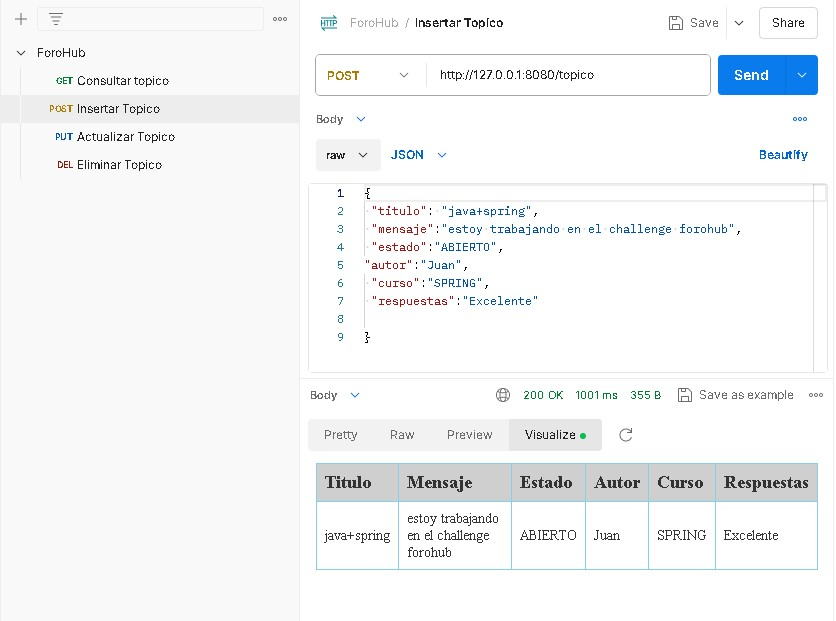
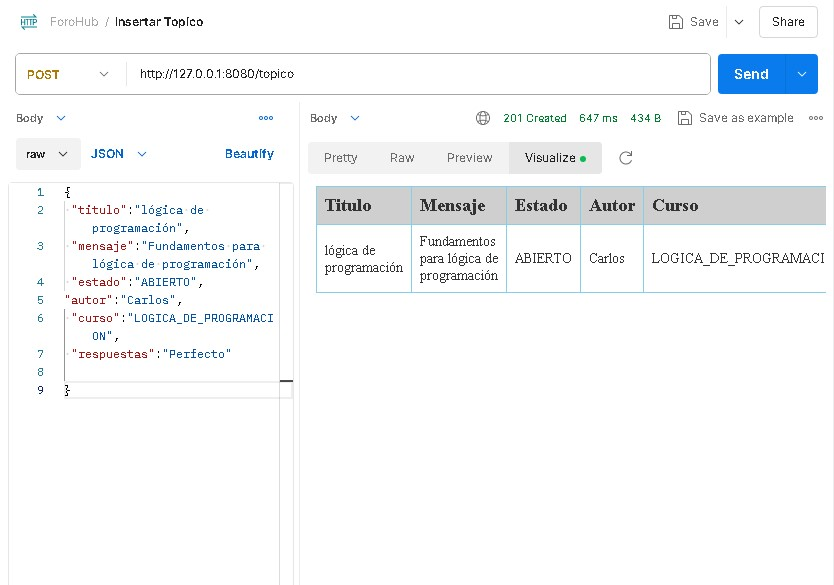
Updated HTTP Response

diff --git a/src/main/java/com/JCodev/ForoHub/Controller/TopicoController.java b/src/main/java/com/JCodev/ForoHub/Controller/TopicoController.java
@@ -10,7 +10,9 @@ import org.springframework.data.domain.Sort;
 import org.springframework.data.web.PageableDefault;
 import org.springframework.http.ResponseEntity;
 import org.springframework.web.bind.annotation.*;
+import org.springframework.web.util.UriComponentsBuilder;
 
+import java.net.URI;
 import java.util.List;
 import java.util.stream.Collectors;
 
@@ -22,28 +24,41 @@ public class TopicoController {
     @Autowired
     private TopicoRepository topicoRepository;
 
-    @PostMapping
-    public ResponseEntity<DatosRegistroTopico> crearTopico(@RequestBody @Valid DatosRegistroTopico datosregistroTopico) {
-        topicoRepository.save(new Topico(datosregistroTopico));
-        System.out.println("Topico registrado exitosamente"+datosregistroTopico);
-        return ResponseEntity.ok(datosregistroTopico);
-    }
+@PostMapping
+public ResponseEntity<DatosRegistroTopico> crearTopico(@RequestBody @Valid DatosRegistroTopico datosregistroTopico, UriComponentsBuilder uriComponentsBuilder) {
+    Topico topico = new Topico(datosregistroTopico);
+    topicoRepository.save(topico);
+    System.out.println("Topico registrado exitosamente: " + datosregistroTopico);
 
-    @GetMapping
-    public Page<DatosListadoTopico> listadoTopicos(@PageableDefault(size=20, page=0 , sort = "autor") Pageable paginacion) {
-        return topicoRepository.findAll(paginacion).map(DatosListadoTopico::new);
-    }
+    // Construye la URI usando el ID del Topico guardado
+    URI url = uriComponentsBuilder.path("/topico/{id}").buildAndExpand(topico.getId()).toUri();
+    return ResponseEntity.created(url).body(datosregistroTopico);
+}
+
+
+@GetMapping("/{id}")
+public ResponseEntity<DatosListadoTopico> obtenerTopico(@PathVariable long id) {
+    Topico topico = topicoRepository.findById(id).orElseThrow();
+    return ResponseEntity.ok(new DatosListadoTopico(topico));
+}
+@GetMapping
+public ResponseEntity<Page<DatosListadoTopico>> listadoTopicos(@PageableDefault(size=20, page=0, sort = "autor") Pageable paginacion) {
+    Page<DatosListadoTopico> topicos = topicoRepository.findAll(paginacion).map(DatosListadoTopico::new);
+    return ResponseEntity.ok(topicos);
+}
 
     @PutMapping
     @Transactional
-    public void ActualizarTopico(@RequestBody @Valid DatosActualizarTopico datosActualizarTopico){
+    public ResponseEntity ActualizarTopico(@RequestBody @Valid DatosActualizarTopico datosActualizarTopico){
 Topico topico = topicoRepository.getReferenceById(datosActualizarTopico.id());
 topico.ActualizarTopico(datosActualizarTopico);
+return ResponseEntity.ok(new DatosListadoTopico(topico));
     }
 @DeleteMapping("/{id}")
 @Transactional
-    public void eliminarTopico(@PathVariable long id){
+    public ResponseEntity eliminarTopico(@PathVariable long id){
     Topico topico = topicoRepository.getReferenceById(id);
         topicoRepository.delete(topico);
+        return ResponseEntity.noContent().build();
     }
 }
